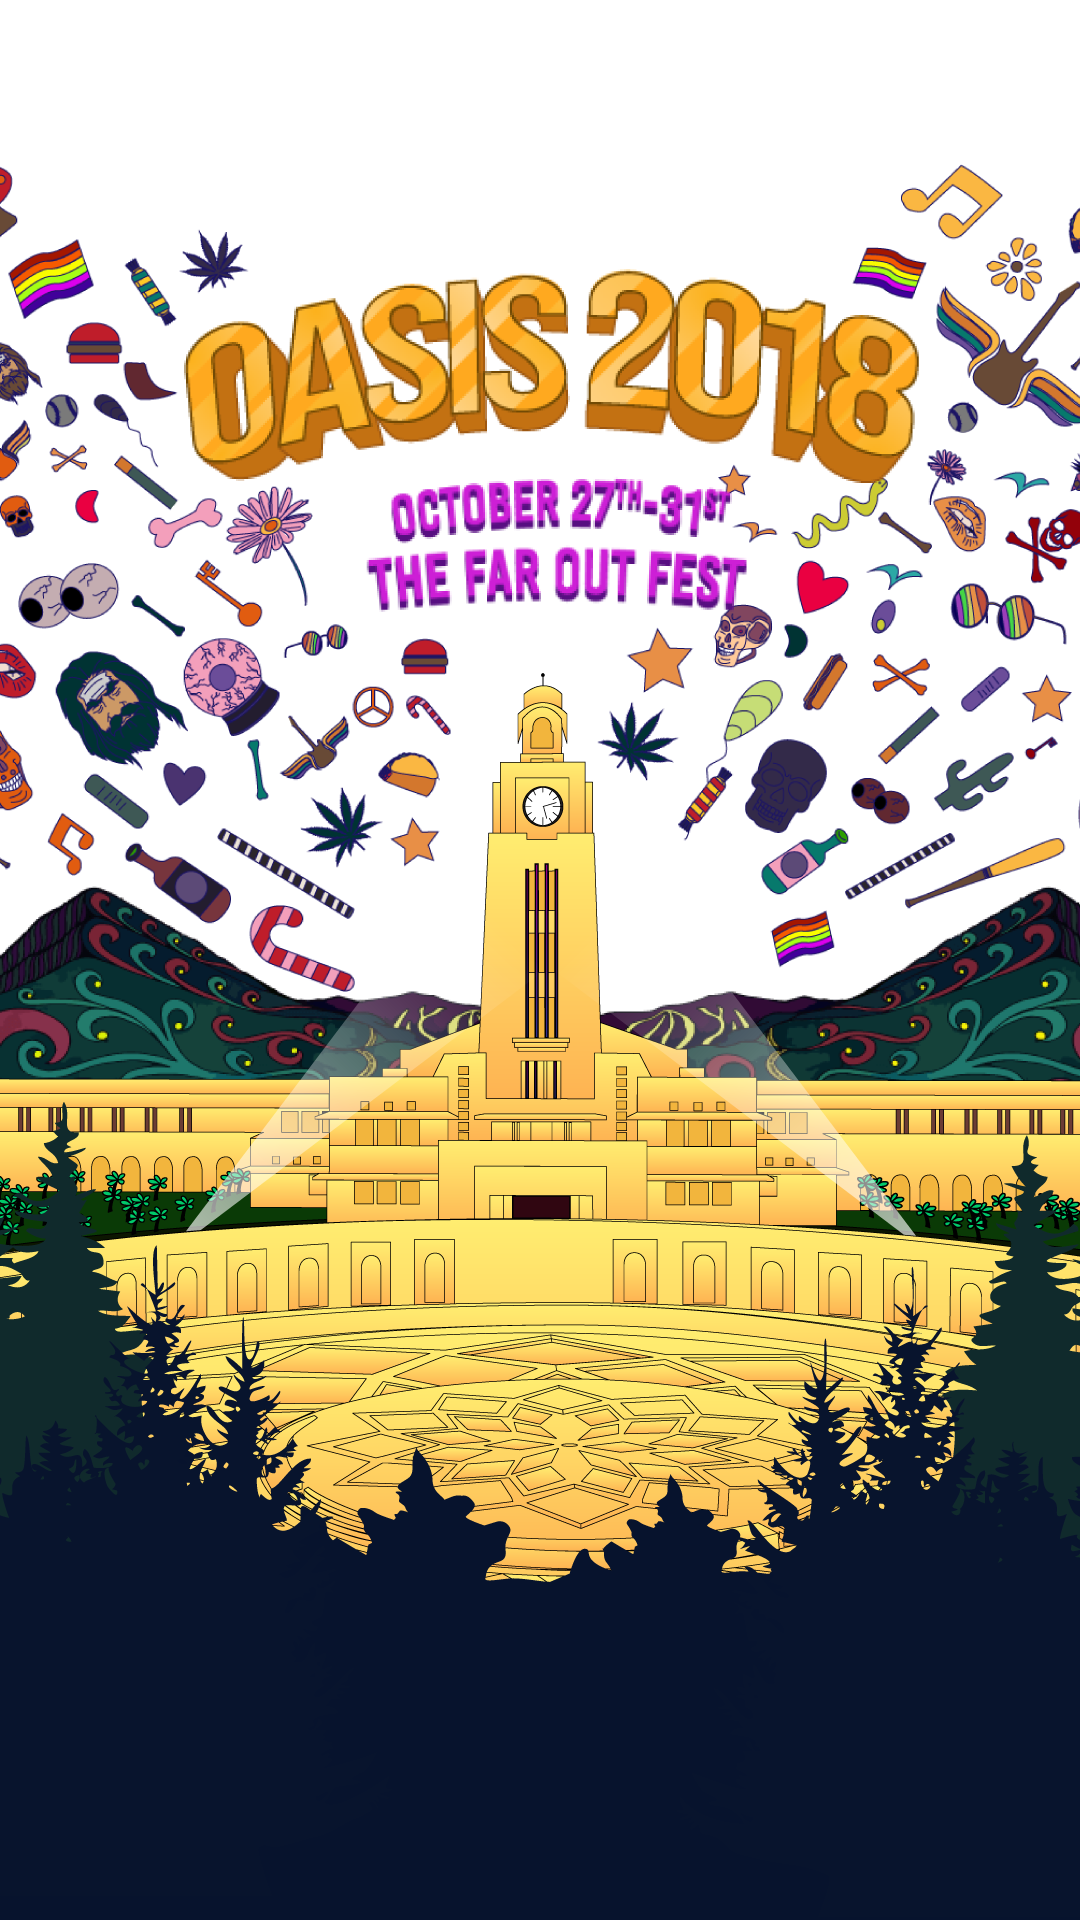
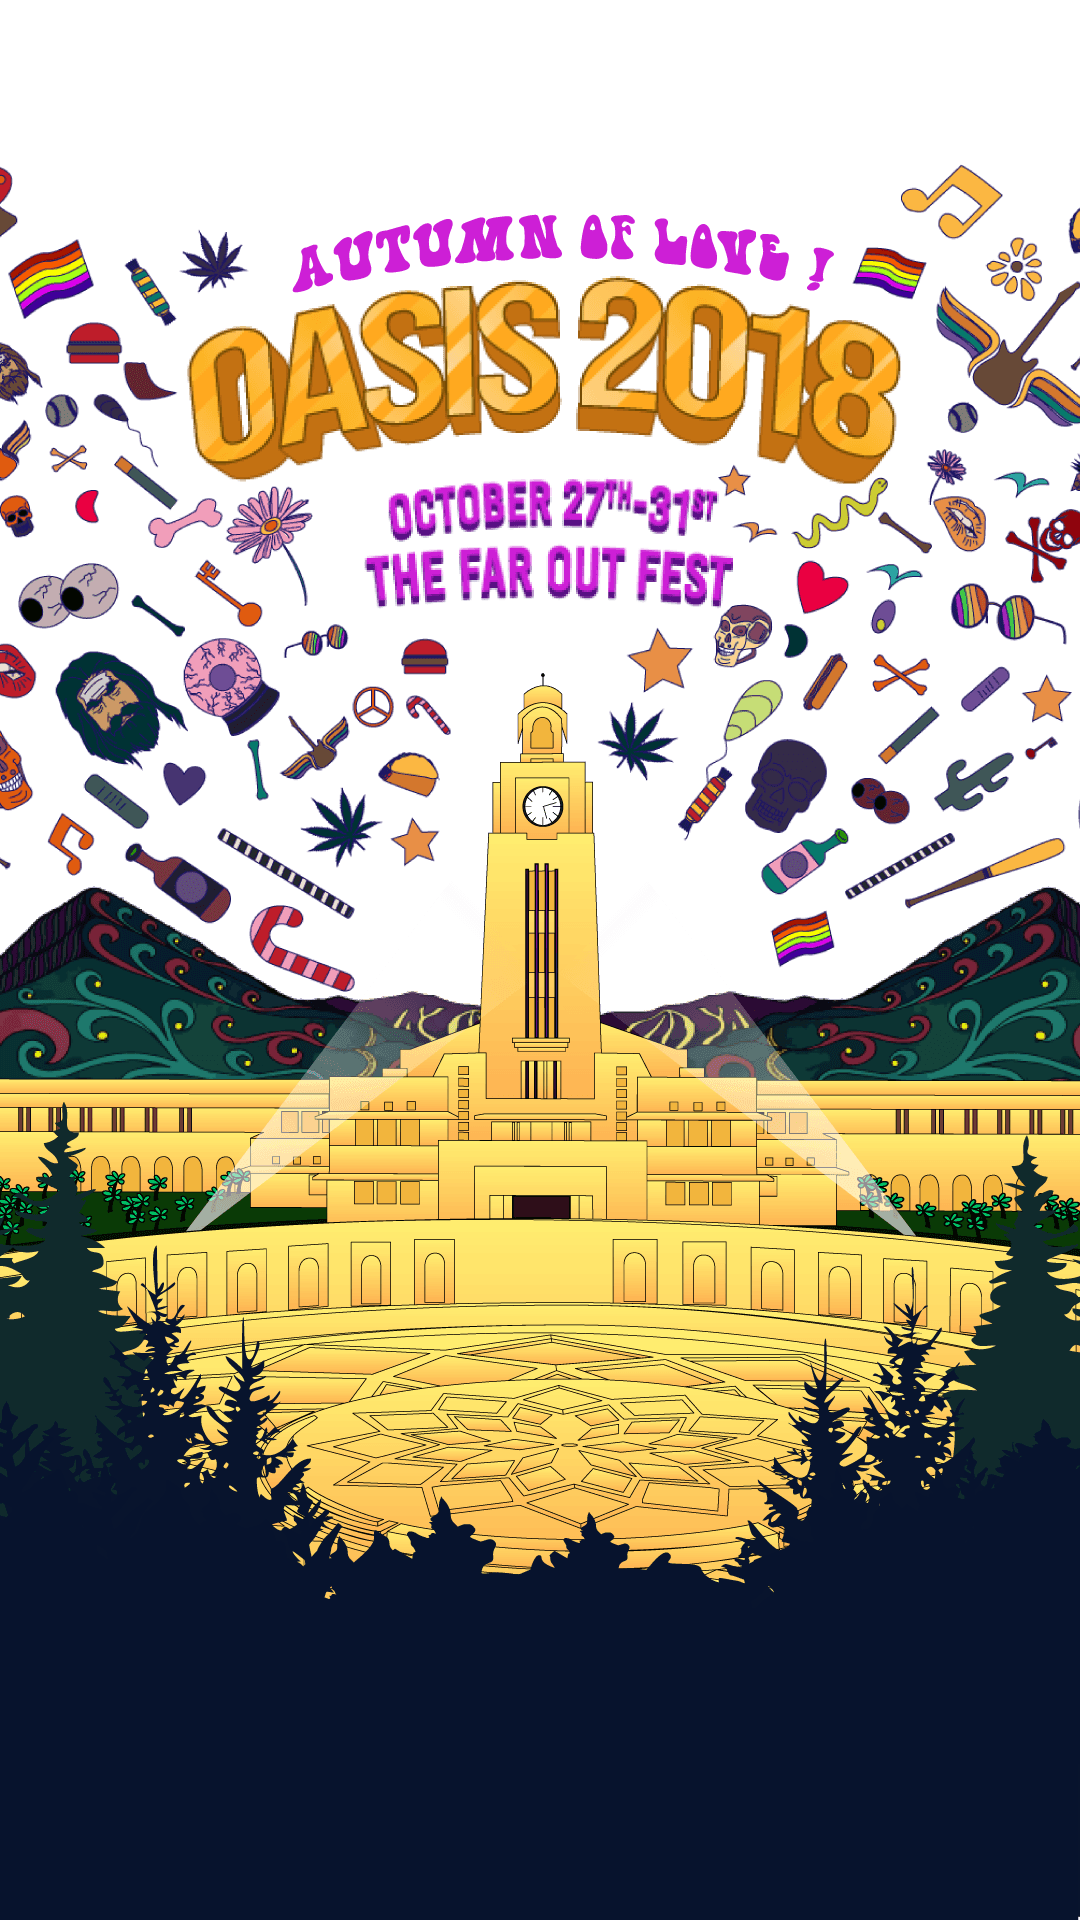
events for mobile fixed; misc changes

Changed region(s): [[0.1528, 0.0938, 0.8556, 0.3438], [0.275, 0.75, 0.5194, 0.8438], [0.5194, 0.75, 0.7028, 0.8438]]

diff --git a/js/home.js b/js/home.js
@@ -1,22 +1,24 @@
 var desktopSVG = document.getElementById("home-svg-desktop");
-var mobileSVG = document.getElementById("home-svg-mobile");
+
 function animOnLoadComplete() {
     (function () {
+        desktopSVG.addEventListener('load', function () {
+            svg = desktopSVG.contentDocument;
+            console.log(svg);
+            if (svg) {
+                console.log("Desktop!");
+                console.log(svg);
+                animateSVG(svg);
+            }
+        });
         svg = desktopSVG.contentDocument;
+        console.log(svg);
         if (svg) {
             console.log("Desktop!");
             console.log(svg);
             animateSVG(svg);
         }
     })();
-
-    // (function () {
-    //     svg = mobileSVG.contentDocument;
-    //     if (svg) {
-    //         console.log("Mobile!");
-    //         animateSVG(svg);
-    //     }
-    // })();
 
     function animateSVG(svg) {
         oasisText = svg.getElementById("Layer_2-2");
@@ -37,29 +39,29 @@ function animOnLoadComplete() {
 
         // fade in elements
         var rings = 8;
-        var time=100;
-        for(i=1; i<=8; i++) {
-            var elems = svg.getElementsByClassName('r'+i);
+        var time = 100;
+        for (i = 1; i <= 8; i++) {
+            var elems = svg.getElementsByClassName('r' + i);
             fadeIn(elems, time);
-            time+=130;
+            time += 130;
         }
 
         // translate elements
         var skyElems = svg.getElementById('skyelements').children;
         var randomCount = 30;
-        for(i=0; i<randomCount; i++) {
+        for (i = 0; i < randomCount; i++) {
             k = Math.floor(Math.random() * skyElems.length);
             skyElems[k].classList.add('animateSky1');
         }
-        for(i=0; i<randomCount; i++) {
+        for (i = 0; i < randomCount; i++) {
             k = Math.floor(Math.random() * skyElems.length);
             skyElems[k].classList.add('animateSky2');
         }
-        for(i=0; i<randomCount; i++) {
+        for (i = 0; i < randomCount; i++) {
             k = Math.floor(Math.random() * skyElems.length);
             skyElems[k].classList.add('animateSky3');
         }
-        for(i=0; i<randomCount; i++) {
+        for (i = 0; i < randomCount; i++) {
             k = Math.floor(Math.random() * skyElems.length);
             skyElems[k].classList.add('animateSky4');
         }
@@ -67,18 +69,18 @@ function animOnLoadComplete() {
         // fade in oasis date and tagline
         var oasisDate = svg.getElementById('oasisDate');
         var tagline = svg.getElementById('autumnOfLove');
-        setTimeout(function() {
+        setTimeout(function () {
             oasisDate.style.transition = "0.3s opacity ease-in";
             oasisDate.style.opacity = 1;
             tagline.style.transition = "0.3s opacity ease-in";
             tagline.style.opacity = 1;
-        }, time+200);
-        window.addEventListener('resize', function () {setTransformOrigin(lights)});
+        }, time + 200);
+        window.addEventListener('resize', function () { setTransformOrigin(lights) });
     }
 
     function fadeIn(elems, time) {
-        setTimeout(function() {
-            for(j=0; j<elems.length; j++) {
+        setTimeout(function () {
+            for (j = 0; j < elems.length; j++) {
                 elems[j].style.transition = "opacity 0.3s ease-in";
                 elems[j].style.opacity = 1;
             }
@@ -86,15 +88,15 @@ function animOnLoadComplete() {
     }
 
     function setTransformOrigin(lights) {
-        for(i=0; i<lights.length; i++) {
+        for (i = 0; i < lights.length; i++) {
             var arr = lights[i].getAttribute('points');
             arr = arr.split(' ');
             var x = arr[4];
             var y = arr[5];
-            if(document.getElementById('home-svg-desktop').style.display == 'none')
-                lights[i].style.transformOrigin = (x/1920)*100 + '% ' + (y/1080)*100 + '%';
+            if (document.getElementById('home-svg-desktop').style.display == 'none')
+                lights[i].style.transformOrigin = (x / 1920) * 100 + '% ' + (y / 1080) * 100 + '%';
             else
-                lights[i].style.transformOrigin = (x/1920)*100 + '% ' + (y/1080)*100 + '%';
+                lights[i].style.transformOrigin = (x / 1920) * 100 + '% ' + (y / 1080) * 100 + '%';
         }
     };
 

diff --git a/css/mobile.css b/css/mobile.css
@@ -1,5 +1,7 @@
 @media all and (max-width: 800px) and (orientation: portrait) {
-      
+    #trees {
+        display: none;
+    }
     #home-svg-desktop {
         display: none;
     }
@@ -11,27 +13,30 @@
     #homeLayer1 {
         bottom: 0;
         top: auto;
-        height: 93vh;
+        height: 100vh;
         background: url('../imgs/mobile-home.png') no-repeat;
     }
 
     #homeLayer1, #trees {
         background-size: cover;
-        background-position: center;
+        background-position: center top;
     }
 
     /* HAM */
-    #ham-icon {
-        height: 40px;
-        margin: 3vh 0 0 3vh;
+    #ham-icon, #close-icon {
+        height: 37px;
+        margin: calc(3vh - 5px) 0 0 3vh;
+    }
+    
+    .close-page {
+        height: 35px;
+        margin: calc(3vh - 5px) 3vh 0 0;
     }
 
-    #close-icon {
-        height: 40px;
-        margin: 20px 0 0 20px;
+    /* NAV */#ham-icon, #close-icon {
+        height: 37px;
+        margin: calc(3vh - 5px) 0 0 3vh;
     }
-
-    /* NAV */
 
     #top-nav {
         margin: 0;
@@ -78,7 +83,10 @@
         height: 20px;
         margin-left: 20px;
     }
-
+    #ham-icon, #close-icon {
+        height: 37px;
+        margin: calc(3vh - 5px) 0 0 3vh;
+    }
     #base-line {
         display: none;
     }
@@ -146,7 +154,7 @@
     #events-link {
         display: flex;
         position: absolute;
-        bottom: 15vh;
+        bottom: 5vh;
         left: 50%;
         transform: translateX(-50%);
     }
@@ -288,7 +296,8 @@
 
 @media all and (max-width: 800px) {
 	.about-content {
-		padding: 0 50px;	
+        padding: 0 50px;
+        text-align: center;
 	}
 }
 

diff --git a/js/events.js b/js/events.js
@@ -88,8 +88,8 @@ function appearEvent(objectElem) {
     if (document.documentElement.clientWidth < 800) {
         var svg = objectElem.contentDocument.getElementsByTagName("svg")[0];
         // svg.style.transform = "scale(1)";
-        // svg.style.transition = "opacity 0.2s linear";
-        // svg.style.opacity = "1";
+        svg.style.transition = "transform 0.2s linear, opacity 0.2s linear";
+        svg.style.opacity = "1";
     }
     else {
         var delay = 0.02;
@@ -118,14 +118,25 @@ function change(n) {
     else {
         curimg = curimg + n;
     }
-    setTimeout(
-        function () {
-            images[curimg].style.transition = "opacity 0.2s linear";
-            images[curimg].style.opacity = 1;
-            appearEvent(images[curimg]);
-        },
-        1000
-    )
+    if(document.documentElement.clientWidth < 800) {
+        setTimeout(
+            function () {
+                images[curimg].style.transition = "opacity 0.2s linear";
+                images[curimg].style.opacity = 1;
+                appearEvent(images[curimg]);
+            },
+            400
+        )
+    } else {
+        setTimeout(
+            function () {
+                images[curimg].style.transition = "opacity 0.2s linear";
+                images[curimg].style.opacity = 1;
+                appearEvent(images[curimg]);
+            },
+            1000
+        )
+    }
 }
 
 var prev = document.getElementById('prev-event');

diff --git a/css/desktop.css b/css/desktop.css
@@ -1231,9 +1231,10 @@ span[role=combobox] {
    
   }
 
-@media handheld and (max-height: 700px) and (orientation: landscape) {
+@media handheld and (max-height: 850px) and (orientation: landscape) {
     #ham-icon {
-        height: 35px;
+        height: 1.6em;
+        padding-top: 1.5px;
     }
 
     #top-nav {
@@ -1271,6 +1272,17 @@ span[role=combobox] {
     }
     #events-link {
         bottom: 10vh;
+    }
+    #top-nav {
+        margin-top: 10px;
+        margin-left: 10px;
+    }
+    #register-link {
+        margin-top: 10px;
+        margin-right: 10px;
+    }
+    .top-nav-link {
+        font-size: 1.4em;
     }
 }
 

diff --git a/index.html b/index.html
@@ -236,10 +236,10 @@
 
         @media all and (max-width: 600px) {
             #loader-container #oasis-title {
-                font-size: 40px;
+                font-size: 30px;
             }
             #loader-container #oasis-subtitle {
-                font-size: 20px;
+                font-size: 10px;
             }
         }
 

diff --git a/css/common.css b/css/common.css
@@ -1,7 +1,7 @@
 #top-nav {
     z-index: 301;
 }
-#home-svg-desktop, #home-svg-mobile {
+#home-svg-desktop {
     height: 100vh;
     position: absolute;
     top: 0;
